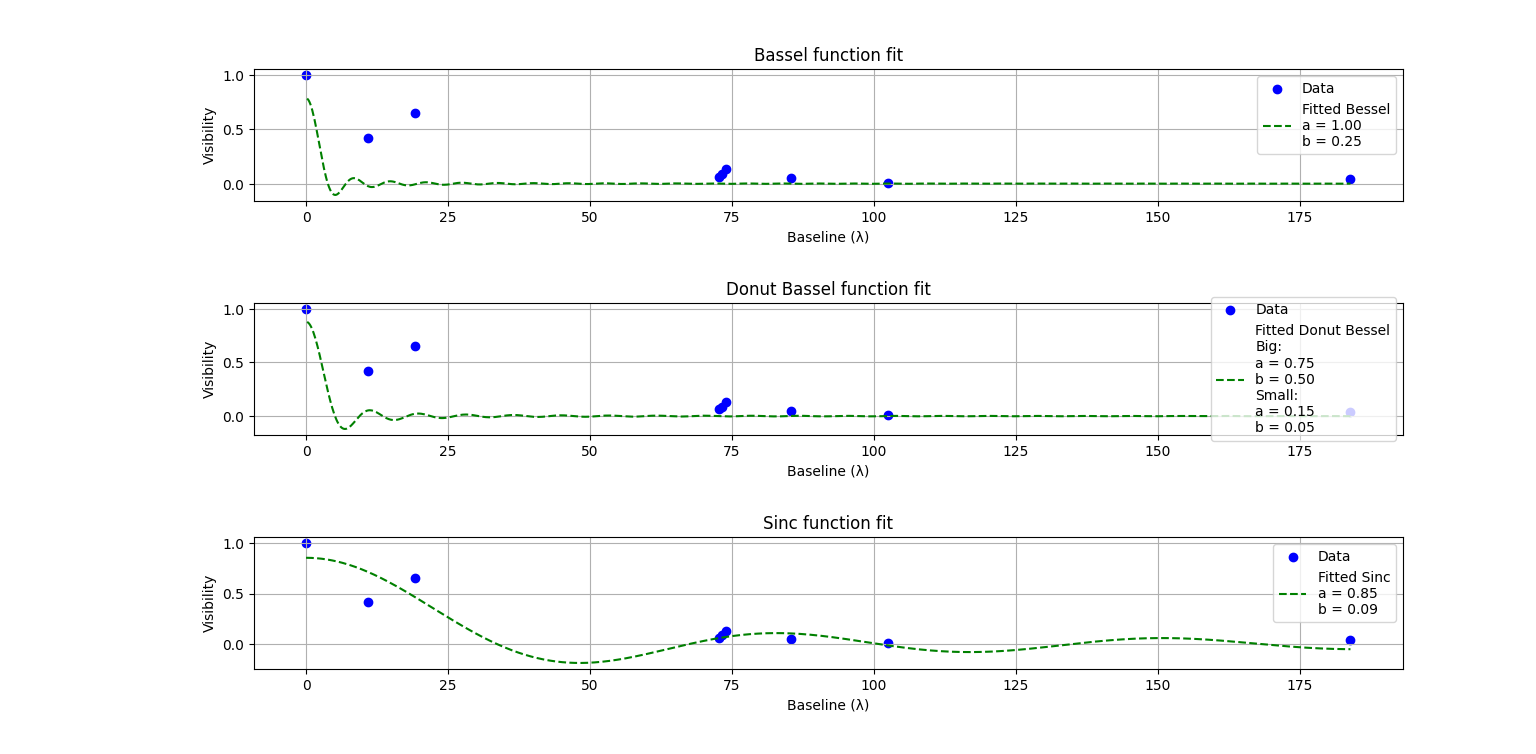
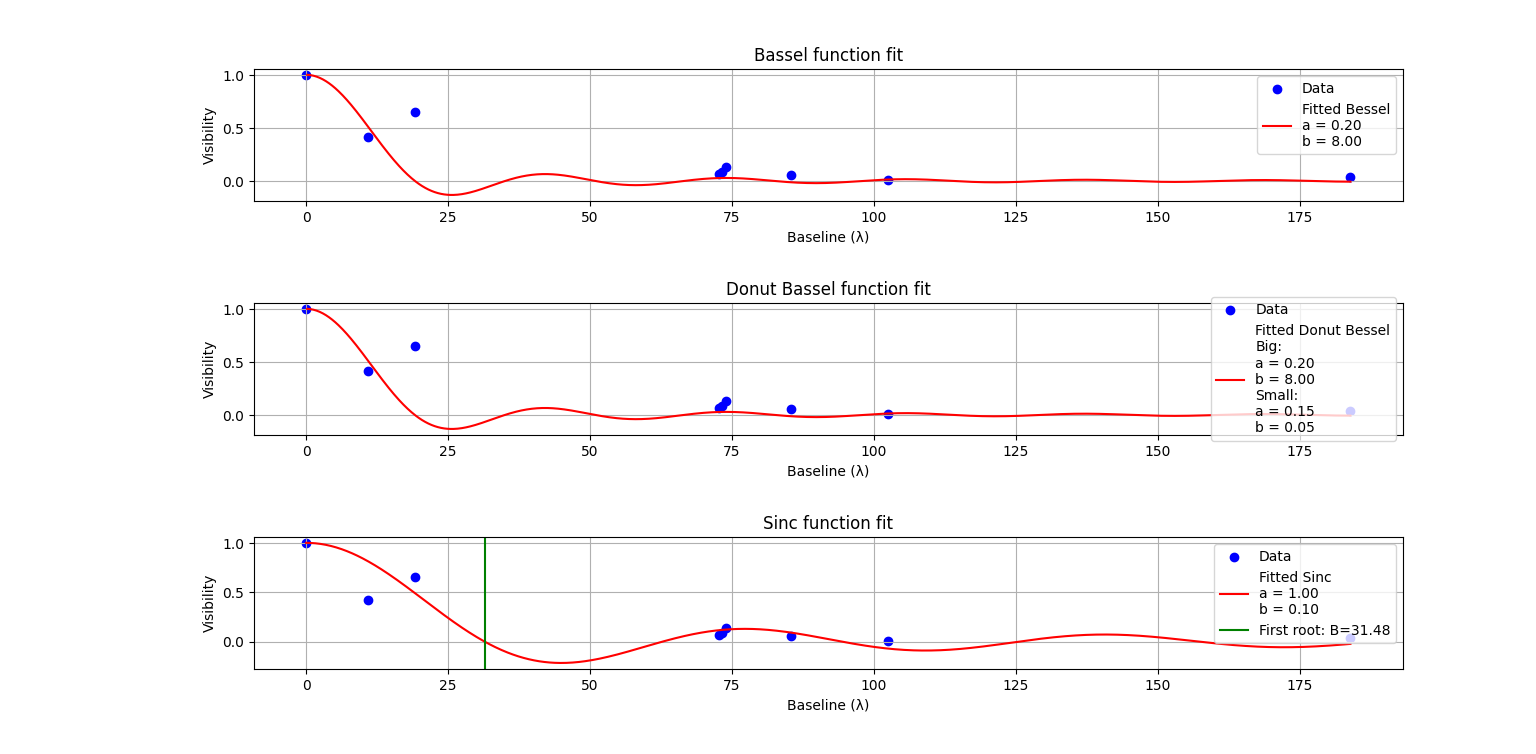
Final push

diff --git a/plotting/plotter.py b/plotting/plotter.py
@@ -11,65 +11,87 @@ class Plotter:
         baseline: list[float],
         visibility: list[float],
         bassel_model: Callable[..., Any],
-        basel_model_params: list[float],
         bassel_model_donut: Callable[..., Any],
-        basel_model_donut_params: list[float],
         sinc_model: Callable[..., Any],
-        sinc_model_params: list[float],
         p0_bessel: list[float],
         p0_bessel_donut: list[float],
         p0_sinc: list[float],
+        min_point: list[float, float],
     ):
+        """
+        Plots fitted Bessel, Donut Bessel, and Sinc functions against visibility data.
+
+        :param baseline: The baseline data points.
+        :type baseline: list[float]
+        :param visibility: The visibility data corresponding to the baseline.
+        :type visibility: list[float]
+        :param bassel_model: The Bessel model function used for fitting.
+        :type bassel_model: Callable[..., Any]
+        :param bassel_model_donut: The Donut Bessel model function used for fitting.
+        :type bassel_model_donut: Callable[..., Any]
+        :param sinc_model: The Sinc model function used for fitting.
+        :type sinc_model: Callable[..., Any]
+        :param p0_bessel: Initial parameters for the Bessel model fitting.
+        :type p0_bessel: list[float]
+        :param p0_bessel_donut: Initial parameters for the Donut Bessel model fitting.
+        :type p0_bessel_donut: list[float]
+        :param p0_sinc: Initial parameters for the Sinc model fitting.
+        :type p0_sinc: list[float]
+        :param min_point: The minimum point (first root) for the Sinc function.
+        :type min_point: list[float, float]
+        """
         linspace_x = np.linspace(0, np.array(baseline).max(), 1000)
 
         fig, axs = plt.subplots(3, 1, figsize=(8, 10))
 
+        # Bessel Plot
         axs[0].scatter(baseline, visibility, label="Data", color="b")
         axs[0].plot(
             linspace_x,
-            bassel_model(linspace_x, *basel_model_params),
-            label=f"Fitted Bessel\na = {basel_model_params[0]:.2f}\nb = {basel_model_params[1]:.2f}",
-            color="g",
-            linestyle="--",
+            bassel_model(linspace_x, *p0_bessel),
+            label=f"Fitted Bessel\na = {p0_bessel[0]:.2f}\nb = {p0_bessel[1]:.2f}",
+            color="r",
+            linestyle="-",
         )
-        # axs[0].plot(linspace_x, bassel_model(linspace_x, *p0_bessel),
-        #             label="Initial guess", color='r', linestyle='-')
         axs[0].set_title("Bassel function fit")
         axs[0].set_xlabel("Baseline (λ)")
         axs[0].set_ylabel("Visibility")
         axs[0].grid(True)
         axs[0].legend()
 
+        # Bessel Donnut plot
         axs[1].scatter(baseline, visibility, label="Data", color="b")
         axs[1].plot(
             linspace_x,
-            bassel_model_donut(linspace_x, *basel_model_donut_params),
+            bassel_model_donut(linspace_x, *p0_bessel_donut),
             label=(
-                f"Fitted Donut Bessel\nBig:\na = {basel_model_donut_params[0]:.2f}\n"
-                f"b = {basel_model_donut_params[1]:.2f}\n"
-                f"Small:\na = {basel_model_donut_params[2]:.2f}\n"
-                f"b = {basel_model_donut_params[3]:.2f}"),
-            color="g",
-            linestyle="--",
+                f"Fitted Donut Bessel\nBig:\na = {p0_bessel_donut[0]:.2f}\n"
+                f"b = {p0_bessel_donut[1]:.2f}\n"
+                f"Small:\na = {p0_bessel_donut[2]:.2f}\n"
+                f"b = {p0_bessel_donut[3]:.2f}"
+            ),
+            color="r",
+            linestyle="-",
         )
-        # axs[1].plot(linspace_x, bassel_model_donut(linspace_x, *p0_bessel_donut),
-        #             label="Initial guess", color='r', linestyle='-')
         axs[1].set_title("Donut Bassel function fit")
         axs[1].set_xlabel("Baseline (λ)")
         axs[1].set_ylabel("Visibility")
         axs[1].grid(True)
         axs[1].legend(loc="right")
 
+        # Sinc plot
         axs[2].scatter(baseline, visibility, label="Data", color="b")
         axs[2].plot(
             linspace_x,
-            sinc_model(linspace_x, *sinc_model_params),
-            label=f"Fitted Sinc\na = {sinc_model_params[0]:.2f}\nb = {sinc_model_params[1]:.2f}",
-            color="g",
-            linestyle="--",
+            sinc_model(linspace_x, *p0_sinc),
+            label=f"Fitted Sinc\na = {p0_sinc[0]:.2f}\nb = {p0_sinc[1]:.2f}",
+            color="r",
+            linestyle="-",
         )
-        # axs[2].plot(linspace_x, sinc_model(linspace_x, *p0_sinc),
-        #             label="Initial guess", color='r', linestyle='-')
+        axs[2].axvline(
+            min_point[0], label=f"First root: B={min_point[0]:.2f}", color="g"
+        )
+        # axs[2].scatter(min_point[0], min_point[1], label=f"First root: B={min_point[0]:.2f}", color='g')
         axs[2].set_title("Sinc function fit")
         axs[2].set_xlabel("Baseline (λ)")
         axs[2].set_ylabel("Visibility")
@@ -85,6 +107,16 @@ class Plotter:
         visibilities: list[float],
         visibilities_error: list[float],
     ):
+        """
+        Plots visibility against baseline with error bars.
+
+        :param baseline: The baseline data points.
+        :type baseline: np.ndarray
+        :param visibilities: The visibility data corresponding to the baseline.
+        :type visibilities: list[float]
+        :param visibilities_error: The error in the visibility data.
+        :type visibilities_error: list[float]
+        """
         visibilities_arr = np.array(visibilities)
 
         _, ax = plt.subplots()
@@ -115,6 +147,16 @@ class Plotter:
         peaks_and_troughs: tuple[tuple[list[float], list[float]]],
         all_gaussians: tuple[tuple[np.ndarray, np.ndarray]],
     ) -> None:
+        """
+        Plots processed data with Gaussian fits overlaid.
+
+        :param datasets: Tuple containing datasets of time and power values.
+        :type datasets: tuple[tuple[list[float], list[float]]]
+        :param peaks_and_troughs: Tuple containing peak and trough data for the datasets.
+        :type peaks_and_troughs: tuple[tuple[list[float], list[float]]]
+        :param all_gaussians: Tuple containing Gaussian fit parameters for all datasets.
+        :type all_gaussians: tuple[tuple[np.ndarray, np.ndarray]]
+        """
         datasets_names = ["A", "B", "C", "D", "E", "F", "G", "H"]
 
         self._plot_data(
@@ -132,6 +174,14 @@ class Plotter:
         datasets: tuple[tuple[list[float], list[float]]],
         peaks_and_troughs: tuple[tuple[list[float], list[float]]],
     ) -> None:
+        """
+        Plots processed data with peaks and troughs identified.
+
+        :param datasets: Tuple containing datasets of time and power values.
+        :type datasets: tuple[tuple[list[float], list[float]]]
+        :param peaks_and_troughs: Tuple containing peak and trough data for the datasets.
+        :type peaks_and_troughs: tuple[tuple[list[float], list[float]]]
+        """
         datasets_names = ["A", "B", "C", "D", "E", "F", "G", "H"]
 
         self._plot_data(
@@ -147,6 +197,14 @@ class Plotter:
         datasets: tuple[tuple[list[float], list[float]]],
         peaks: tuple[list[float]],
     ) -> None:
+        """
+        Plots narrow data with peak markers.
+
+        :param datasets: Tuple containing datasets of time and power values.
+        :type datasets: tuple[tuple[list[float], list[float]]]
+        :param peaks: Tuple containing the peak positions for each dataset.
+        :type peaks: tuple[list[float]]
+        """
         datasets_names = ["A", "B", "C", "D", "E", "F", "G", "H"]
 
         self._plot_data(
@@ -162,6 +220,7 @@ class Plotter:
         self,
         datasets: tuple[tuple[list[float], list[float]]],
         x_axis_label: str = "Time (s)",
+        y_axis_label: str = "Power (dBm)",
     ) -> None:
         """
         Makes a 2x4 figure of all the raw data from the datasets.
@@ -172,7 +231,12 @@ class Plotter:
         """
         datasets_names = ["A", "B", "C", "D", "E", "F", "G", "H"]
 
-        self._plot_data(datasets_names, datasets, x_axis_label=x_axis_label)
+        self._plot_data(
+            datasets_names,
+            datasets,
+            x_axis_label=x_axis_label,
+            y_axis_label=y_axis_label,
+        )
 
     def _plot_data(
         self,
@@ -187,6 +251,30 @@ class Plotter:
         all_gaussians: tuple[tuple[np.ndarray, np.ndarray]] | None = None,
         peaks: bool = False,
     ) -> None:
+        """
+        Helper method for plotting data with optional overlays for peaks, troughs, and Gaussian fits.
+
+        :param datasets_names: The names of the datasets to be plotted.
+        :type datasets_names: list[str]
+        :param datasets: Tuple containing datasets of time and power values.
+        :type datasets: tuple[tuple[list[float], list[float]]]
+        :param processed: Whether the data is processed (i.e., should peaks and troughs be plotted).
+        :type processed: bool
+        :param peaks_and_troughs: Tuple containing peak and trough data for the datasets (optional).
+        :type peaks_and_troughs: tuple[tuple[list[float], list[float]]] | None
+        :param peaks_narrow: Tuple containing narrow peak positions for each dataset (optional).
+        :type peaks_narrow: tuple[tuple[list[float], list[float]]] | None
+        :param y_axis_label: The label for the y-axis. Defaults to "Power (dBm)".
+        :type y_axis_label: str
+        :param x_axis_label: The label for the x-axis. Defaults to "Time (s)".
+        :type x_axis_label: str
+        :param gaussian: Whether to overlay Gaussian fits on the data.
+        :type gaussian: bool
+        :param all_gaussians: Tuple containing Gaussian fit parameters for all datasets (optional).
+        :type all_gaussians: tuple[tuple[np.ndarray, np.ndarray]] | None
+        :param peaks: Whether to overlay peak markers on the data.
+        :type peaks: bool
+        """
         # Create a 4x2 fig
         fig, axes = plt.subplots(2, 4, figsize=(20, 15))
 

diff --git a/interferometry.py b/interferometry.py
@@ -19,32 +19,106 @@ class Interfermetry:
         visibilities, visibilities_error = self._get_visibilities()
         baselines = self._get_baselines()
 
-        p0_bessel = [1, 0.25]
-        popt_bessel, pcov = curve_fit(
-            bessel_function, baselines, visibilities, p0=p0_bessel
-        )
+        p0_bessel = [0.2, 8]
 
-        p0_bessel_donut = [0.75, 0.5, 0.15, 0.05]
-        popt_bessel_donut, pcov = curve_fit(
-            bessel_function_dunut, baselines, visibilities, p0=p0_bessel_donut
-        )
+        p0_bessel_donut = [0.2, 8, 0.15, 0.05]
 
         p0_sinc = [1, 0.1]
-        popt_sinc, pcov = curve_fit(sinc_function, baselines, visibilities, p0=p0_sinc)
+
+        # Determine goodness of fit
+        mae_bessel, mae_bessel_dunut, mae_sinc = self._goodness_of_fit(
+            p0_bessel, p0_bessel_donut, p0_sinc, baselines, visibilities
+        )
+
+        maes_array = np.array([mae_bessel, mae_bessel_dunut, mae_sinc])
+
+        best_mae = maes_array.min()
+
+        linspace_x = np.linspace(0, np.array(baselines).max(), 1000)
+
+        print("Mean absolute error of the fit:")
+        print(f"Bessel: {mae_bessel:.2f}")
+        print(f"Bessel Donut: {mae_bessel_dunut:.2f}")
+        print(f"Sinc: {mae_sinc:.2f}")
+
+        print("Best fit: Sinc")
+        print(f"MAE: {best_mae:.2f}")
+        sinc = sinc_function(linspace_x, *p0_sinc)
+        for i in range(1000):
+            if sinc[i] < 0 and sinc[i] + 0.01 > 0:
+                first_0 = i
+                break
+
+        min_point = [linspace_x[first_0], sinc[first_0]]
 
         Plotter().plot_fitted_funcs(
             baseline=baselines,
             visibility=visibilities,
             bassel_model=bessel_function,
-            basel_model_params=popt_bessel,
             bassel_model_donut=bessel_function_dunut,
-            basel_model_donut_params=popt_bessel_donut,
             sinc_model=sinc_function,
-            sinc_model_params=popt_sinc,
             p0_bessel=p0_bessel,
             p0_bessel_donut=p0_bessel_donut,
             p0_sinc=p0_sinc,
+            min_point=min_point,
         )
+
+    def _goodness_of_fit(
+        self,
+        p0_bessel: list[float],
+        p0_bessel_donut: list[float],
+        p0_sinc: list[float],
+        baselines: list[float],
+        visibilities: list[float],
+    ) -> tuple:
+        """
+        Computes the Mean Absolute Error (MAE) for three models (Bessel, Bessel donut, and sinc)
+        by comparing the model predictions with the actual visibility data.
+
+        :param p0_bessel: Initial parameters for the Bessel function
+        :type p0_bessel: list of float
+        :param p0_bessel_donut: Initial parameters for the Bessel donut function
+        :type p0_bessel_donut: list of float
+        :param p0_sinc: Initial parameters for the sinc function
+        :type p0_sinc: list of float
+        :param baselines: Array of baseline data
+        :type baselines: list of float
+        :param visibilities: Array of visibility data
+        :type visibilities: list of float
+
+        :return: Tuple containing the MAE for Bessel, Bessel donut, and sinc functions
+        :rtype: tuple of float
+        """
+        bessel = bessel_function(baselines, *p0_bessel)
+        bessel_donut = bessel_function_dunut(baselines, *p0_bessel_donut)
+        sinc = sinc_function(baselines, *p0_sinc)
+
+        bessel[0] = 1
+        bessel_donut[0] = 1
+
+        mae_bessel = self._mean_absolute_error(visibilities, bessel)
+        mae_bessel_dunut = self._mean_absolute_error(visibilities, bessel_donut)
+        mae_sinc = self._mean_absolute_error(visibilities, sinc)
+
+        return mae_bessel, mae_bessel_dunut, mae_sinc
+
+    def _mean_absolute_error(self, x: Any, y: Any):
+        """
+        Calculates the Mean Absolute Error (MAE) between two datasets.
+
+        :param x: First dataset to compare
+        :type x: Any
+        :param y: Second dataset to compare
+        :type y: Any
+
+        :return: The mean absolute error between the two datasets
+        :rtype: float
+        """
+        x = np.array(x)
+        y = np.array(y)
+        res = x - y
+        res_abs = np.abs(res)
+        return res_abs.mean()
 
     def w_fringes_in_terms_of_visibilities(self):
         """
@@ -166,7 +240,9 @@ class Interfermetry:
 
         if plot:
             Plotter().plot_raw_data(
-                power_min_p_avg_deg_datasets, x_axis_label="Deg (°)"
+                power_min_p_avg_deg_datasets,
+                x_axis_label="Deg (°)",
+                y_axis_label="Power (W)",
             )
 
         return power_min_p_avg_deg_datasets
@@ -247,7 +323,6 @@ class Interfermetry:
                 print("-------------- Power --------------")
                 print(f"P_{max_} = {p_max:e} \\pm {p_max_error:e} W")
                 print(f"P_{min_} = {p_min:e} \\pm {p_min_error:e} W")
-                print(f"P_{avg_} = {p_avg:e} \\pm {p_avg_error:e} W")
                 print("----------- Visibility -----------")
                 print(f"|V(B_\\lambda)| = {visibility:e} \\pm {visibility_error:e}")
 

diff --git a/main.py b/main.py
@@ -12,6 +12,7 @@ all_data_sets_processed = preprocess_data(all_data_sets)
 # Instantiate an interermoter
 interfermoeter = Interfermetry(all_data_sets_processed)
 
+
 def main():
     # Plot the raw data
     Plotter().plot_raw_data(all_data_sets)
@@ -39,5 +40,7 @@ def main():
     # the visibilities in terms of baseline
     interfermoeter.fit_funcs()
 
+
 if __name__ == "__main__":
-    main()
+    # main()
+    interfermoeter.fit_funcs()
